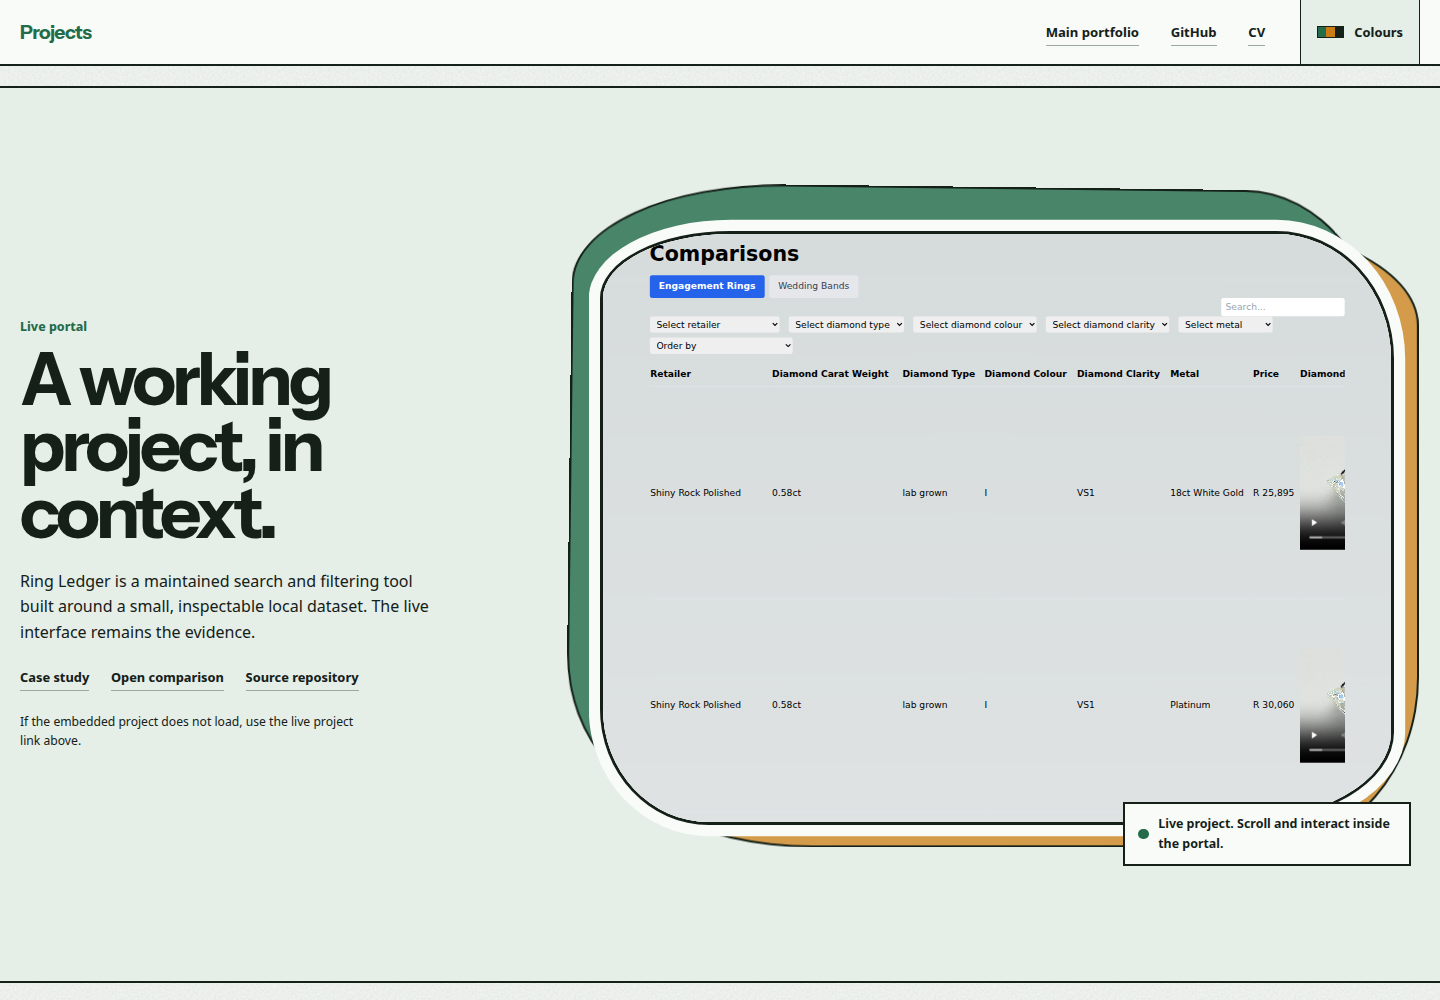
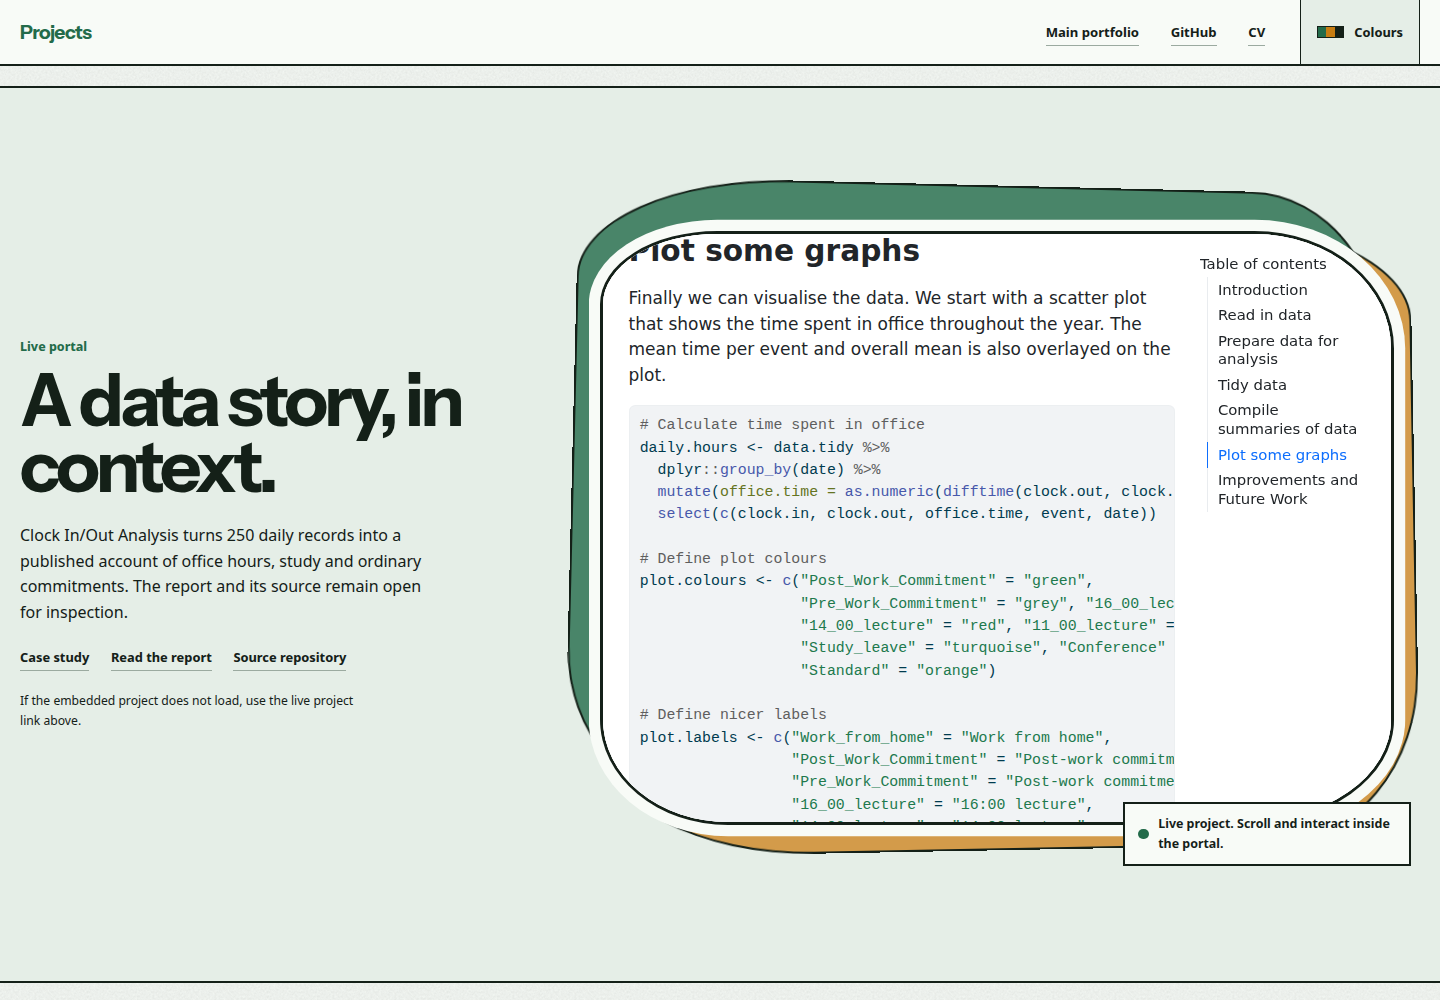
Use Clock analysis for the live portal

diff --git a/components/LivePortal.tsx b/components/LivePortal.tsx
@@ -3,7 +3,7 @@ import type { ProjectRecord } from "@/types/projects"
 
 export function LivePortal({ project }: { project: ProjectRecord }) {
 	const liveLink = project.links.find(
-		(item) => item.kind === "demo" && item.availability === "live"
+		(item) => ["demo", "report"].includes(item.kind) && item.availability === "live"
 	)
 	if (!liveLink) return null
 
@@ -12,10 +12,10 @@ export function LivePortal({ project }: { project: ProjectRecord }) {
 			<div className="archive-shell portal-layout">
 				<div className="portal-copy">
 					<p className="section-label">Live portal</p>
-					<h2 id="portal-title">A working project, in context.</h2>
+					<h2 id="portal-title">A data story, in context.</h2>
 					<p>
-						Ring Ledger is a maintained search and filtering tool built around a small,
-						inspectable local dataset. The live interface remains the evidence.
+						Clock In/Out Analysis turns 250 daily records into a published account of office
+						hours, study and ordinary commitments. The report and its source remain open for inspection.
 					</p>
 					<ProjectActions project={project} />
 					<p className="portal-fallback">
@@ -28,8 +28,8 @@ export function LivePortal({ project }: { project: ProjectRecord }) {
 					<div className="portal-contour portal-contour-inner" aria-hidden="true" />
 					<div className="project-portal">
 						<iframe
-							title="Live Ring Ledger project"
-							src={liveLink.url}
+							title={`Live ${project.title} project`}
+							src={project.previewUrl ?? liveLink.url}
 							loading="lazy"
 							referrerPolicy="strict-origin-when-cross-origin"
 							sandbox="allow-forms allow-popups allow-same-origin allow-scripts"

diff --git a/content/projects.ts b/content/projects.ts
@@ -295,6 +295,7 @@ export const projects: ProjectRecord[] = [
 			link("report", "Read the report", "https://tinomuzambi.github.io/ClockInOut/"),
 			link("source", "Source repository", "https://github.com/TinoMuzambi/ClockInOut"),
 		],
+		previewUrl: "https://tinomuzambi.github.io/ClockInOut/#plot-some-graphs",
 		relatedExperience: [
 			{ label: "MSc Data Science", url: "https://tinomuzambi.com/#education" },
 		],

diff --git a/app/page.tsx b/app/page.tsx
@@ -5,7 +5,7 @@ import { featuredProjects, getProject, projects } from "@/content/projects"
 import { archiveJsonLd } from "@/lib/public-data"
 
 export default function Home() {
-	const portalProject = getProject("ring-comparison")
+	const portalProject = getProject("clock-in-out-analysis")
 	const jsonLd = JSON.stringify(archiveJsonLd).replace(/</g, "\\u003c")
 
 	return (

diff --git a/app/globals.css b/app/globals.css
@@ -749,12 +749,10 @@
 
 .project-portal iframe {
 	display: block;
-	width: 175%;
-	height: 175%;
+	width: 100%;
+	height: 100%;
 	border: 0;
 	background: #ffffff;
-	transform: scale(0.5714);
-	transform-origin: left top;
 }
 
 .portal-figure figcaption {

diff --git a/types/projects.ts b/types/projects.ts
@@ -77,6 +77,7 @@ export type ProjectRecord = {
 	outcomes: string[] | null
 	limitations: string[] | null
 	links: ProjectLink[]
+	previewUrl?: string
 	screenshots?: ProjectScreenshot[]
 	relatedExperience: Array<{
 		label: string
